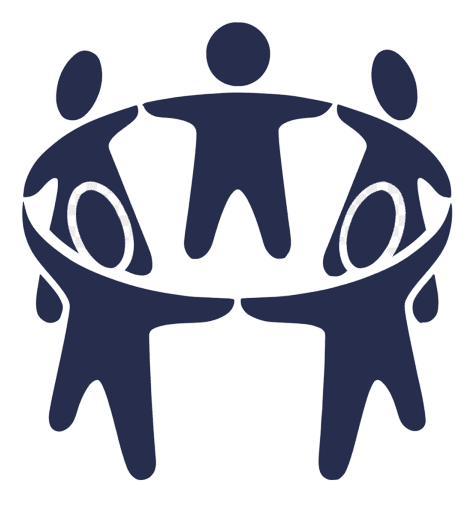
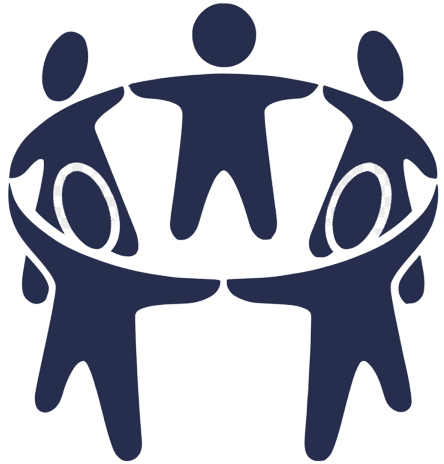
All styles changed

diff --git a/src/components/pages/Home.js b/src/components/pages/Home.js
@@ -16,38 +16,39 @@ const Home = () => {
         <Layout>
             <div className="h-full bg-theme_dark pb-5 text-theme_primary">
                 <div className="flex flex-wrap justify-center">
-                    <div className="w-4/12 sm:w-4/12 px-4">
+                    <div className="w-4/12 sm:w-2/12 px-4">
                         {/* <LazyLoadImage alt="Logo" src="./assets/images/logoSollinx.png" className="rounded h-4/12 m-auto mt-10 align-middle border-none" height="h-4/12" effect="blur" /> */}
-                        <div className="text-center rounded h-4/12 m-auto mt-10 align-middle border-none min-h-sm md:min-h-md">
+                        <div className="text-center rounded h-2/12 m-auto mt-10 align-middle border-none min-h-sm md:min-h-md w-6/12 lg:w-4/12">
                             &nbsp;
-                            <LazyLoadImage src="./assets/images/logoSollinx.png?tr=w-1,h-1:w-400,h-300"  effect="blur" />
+                            <LazyLoadImage src="./assets/images/logoSollinx.png?tr=w-1,h-1:w-200,h-150" effect="blur" />
                         </div>
                     </div>
                 </div>
-                <div className="m-auto w-2/3 md:w-2/3 mt-5 flex flex-col items-center bg-theme_paper rounded-lg md:flex-row hover:bg-theme_paper dark:border-theme_paper dark:bg-theme_paper dark:hover:bg-theme_paper">
-                    <img className="object-cover w-24 h-auto rounded-t-lg md:h-auto md:w-48 md:rounded-none md:rounded-l-lg" loading="lazy" src="./assets/images/book.png" alt="" />
-                    <div className="flex flex-col justify-between p-4 leading-normal">
-                        <h5 className="mb-2 text-2xl font-bold tracking-tight text-gray-900 dark:text-white">Wisdom</h5>
-                        <p className="mb-3 font-normal text-gray-700 dark:text-gray-400"><b>Sollinx</b> is a digital token on the <b>Solana</b> block chain.  <b>Sollinx</b> is a set of communities centered on information of specific interests. Sollinx communities offer information as knowledge and wisdom. Sollinx communities create value for their members, not for shareholders or any institution.</p>
+                <h5 className="text-2xl text-center">Wisdom, Community, Privacy</h5>
+                <div className="m-auto w-10/12 md:w-10/12 mt-5 md:flex items-center bg-theme_paper rounded-lg md:flex-row hover:bg-theme_paper dark:border-theme_paper dark:bg-theme_paper dark:hover:bg-theme_paper">
+                    <div className="flex flex-col justify-between p-0 leading-normal">
+                        <h5 className="mb-4 text-2xl font-bold tracking-tight text-gray-900 dark:text-white">Wisdom</h5>
+                        <p className="mb-3 font-normal md:text-xl lg:text-2xl text-gray-700 dark:text-gray-400"><img className="object-cover float-left w-24 h-auto rounded-t-lg md:h-auto md:w-24 md:rounded-none md:rounded-l-lg" loading="lazy" src="./assets/images/book.png" style={{ shapeOutside: "none" }} alt="" />
+                            <b>Sollinx</b> is a digital token on the <b>Solana</b> block chain.  <b>Sollinx</b> is a set of communities centered on information of specific interests. Sollinx communities offer information as knowledge and wisdom. Sollinx communities create value for their members, not for shareholders or any institution.</p>
                     </div>
                 </div>
-                <div className="m-auto w-2/3 md:w-2/3 mt-5 flex flex-col items-center bg-theme_paper rounded-lg md:flex-row hover:bg-theme_paper dark:border-theme_paper dark:bg-theme_paper dark:hover:bg-theme_paper">
-                    <img className="object-cover w-24 h-auto rounded-t-lg md:h-auto md:w-48 md:rounded-none md:rounded-l-lg"  loading="lazy" src="	./assets/images/community.png" alt="" />
-                    <div className="flex flex-col justify-between p-4 leading-normal">
-                        <h5 className="mb-2 text-2xl font-bold tracking-tight text-gray-900 dark:text-white">Community</h5>
-                        <p className="mb-3 font-normal text-gray-700 dark:text-gray-400">The Solana system allows <b>Sollinx</b> communities to be totally private.  Membership and participation requires no name, no e-mail address, no phone number, no personal information. Period.</p>
+                <div className="m-auto w-10/12 md:w-10/12 mt-5 md:flex items-center bg-theme_paper rounded-lg md:flex-row hover:bg-theme_paper dark:border-theme_paper dark:bg-theme_paper dark:hover:bg-theme_paper">
+                    <div className="flex flex-col justify-between p-0 leading-normal">
+                        <h5 className="mb-4 text-2xl font-bold tracking-tight text-gray-900 dark:text-white">Community</h5>
+                        <p className="mb-3 font-normal md:text-xl lg:text-2xl text-gray-700 dark:text-gray-400"><img className="object-cover float-left  w-24 h-auto rounded-t-lg md:h-auto md:w-24 md:rounded-none md:rounded-l-lg" loading="lazy" src="	./assets/images/community.png" alt="" />
+                            The Solana system allows <b>Sollinx</b> communities to be totally private.  Membership and participation requires no name, no e-mail address, no phone number, no personal information. Period.</p>
                     </div>
                 </div>
-                <div className="m-auto w-2/3 md:w-2/3 mt-5 flex flex-col items-center bg-theme_paper rounded-lg md:flex-row hover:bg-theme_paper dark:border-theme_paper dark:bg-theme_paper dark:hover:bg-theme_paper">
-                    <img className="object-cover w-24 h-auto rounded-t-lg md:h-auto md:w-48 md:rounded-none md:rounded-l-lg"  loading="lazy" src="./assets/images/privacy.png" alt="" />
-                    <div className="flex flex-col justify-between p-4 leading-normal">
-                        <h5 className="mb-2 text-2xl font-bold tracking-tight text-gray-900 dark:text-white">Privacy</h5>
-                        <p className="mb-3 font-normal text-gray-700 dark:text-gray-400">Members must own Sollinx tokens in order to access community content.  Digital “wallets”, on laptops or computers, hold Sollinx tokens. The Solflare app (free) creates wallets to hold Sollinx tokens.</p>
+                <div className="m-auto w-10/12 md:w-10/12 mt-5 md:flex items-center bg-theme_paper rounded-lg md:flex-row hover:bg-theme_paper dark:border-theme_paper dark:bg-theme_paper dark:hover:bg-theme_paper">
+                    <div className="flex flex-col justify-between p-0 leading-normal">
+                        <h5 className="mb-4 text-2xl font-bold tracking-tight text-gray-900 dark:text-white">Privacy</h5>
+                        <p className="mb-3 font-normal md:text-xl lg:text-2xl text-gray-700 dark:text-gray-400"><img className="object-cover float-left w-24 h-auto rounded-t-lg md:h-auto md:w-24 md:rounded-none md:rounded-l-lg" loading="lazy" src="./assets/images/privacy.png" alt="" />
+                            Members must own Sollinx tokens in order to access community content.  Digital “wallets”, on laptops or computers, hold Sollinx tokens. The Solflare app (free) creates wallets to hold Sollinx tokens.</p>
                     </div>
                 </div>
-                <div className="w-2/3 mt-10 m-auto flex flex-col justify-between p-4 leading-normal">
+                <div className="w-10/12 mt-10 m-auto flex flex-col justify-between p-0 leading-normal">
                     <h5 className="mb-2 text-2xl font-bold tracking-tight text-gray-900 dark:text-white">Tap below to:</h5>
-                    <p className="mb-3 ml-10 font-normal md:text-xl text-gray-700 dark:text-gray-400">
+                    <p className="mb-3 ml-2 sm:ml-10 md:text-xl lg:text-2xl font-normal md:text-xl text-gray-700 dark:text-gray-400">
                         - learn more about Sollinx communities
                         <br />
                         - buy Sollinx with a debit/credit card
@@ -63,29 +64,34 @@ const Home = () => {
                     </p>
                 </div>
                 <div className="w-10/12 m-auto text-center justify-center">
-                    <Link to="/community" className="w-4/5 sm:w-4/5 mx-5 mt-3 bg-theme_paper active:bg-sky-600 px-8 py-3 rounded-full shadow-md hover:shadow-lg outline-none focus:outline-none text-center mb-1 ease-linear transition-all duration-150" style={{display:"inline-block"}}><button className="text-sm text-white font-bold text-base" type="button"
+                    <Link to="/community" className="w-3/5 sm:w-2/5 mx-5 mt-3 bg-theme_button active:bg-sky-600 px-8 py-3 rounded-full shadow-md hover:shadow-lg outline-none focus:outline-none text-center mb-1 ease-linear transition-all duration-150" style={{ display: "inline-block" }}><button className="text-sm text-white font-bold text-base" type="button"
                     >
                         Communities
                     </button></Link>
-                    <button className="w-4/5 sm:w-4/ mx-5 mt-3 bg-theme_paper text-sm text-white active:bg-sky-600 font-bold text-base px-8 py-3 rounded-full shadow-md hover:shadow-lg outline-none focus:outline-none mb-1 ease-linear transition-all duration-150" type="button" onClick={() => setBuySollinxModal(true)}
+                    <br />
+                    <button className="w-3/5 sm:w-2/5 mx-5 mt-3 bg-theme_button text-sm text-white active:bg-sky-600 font-bold text-base px-8 py-3 rounded-full shadow-md hover:shadow-lg outline-none focus:outline-none mb-1 ease-linear transition-all duration-150" type="button" onClick={() => setBuySollinxModal(true)}
                     >
                         Buy Sollinx
                     </button>
-                    <button className="w-4/5 sm:w-4/5 mx-5 mt-3 bg-theme_paper text-sm text-white active:bg-sky-600 font-bold text-base px-8 py-3 rounded-full shadow-md hover:shadow-lg outline-none focus:outline-none mb-1 ease-linear transition-all duration-150" type="button" onClick={() => setSolflareShowModal(true)}
+                    <br />
+                    <button className="w-3/5 sm:w-2/5 mx-5 mt-3 bg-theme_button text-sm text-white active:bg-sky-600 font-bold text-base px-8 py-3 rounded-full shadow-md hover:shadow-lg outline-none focus:outline-none mb-1 ease-linear transition-all duration-150" type="button" onClick={() => setSolflareShowModal(true)}
                     >
                         Get Solflare App
                     </button>
-                    <button className="w-4/5 sm:w-4/5 mx-5 mt-3 bg-theme_paper text-sm text-white active:bg-sky-600 font-bold text-base px-8 py-3 rounded-full shadow-md hover:shadow-lg outline-none focus:outline-none mb-1 ease-linear transition-all duration-150" type="button" onClick={() => setSollinxShowModal(true)}
+                    <br />
+                    <button className="w-3/5 sm:w-2/5 mx-5 mt-3 bg-theme_button text-sm text-white active:bg-sky-600 font-bold text-base px-8 py-3 rounded-full shadow-md hover:shadow-lg outline-none focus:outline-none mb-1 ease-linear transition-all duration-150" type="button" onClick={() => setSollinxShowModal(true)}
                     >
                         Get Sollinx App
                     </button>
-                    <button className="w-4/5 sm:w-4/ mx-5 mt-3 bg-theme_paper text-sm text-white active:bg-sky-600 font-bold text-base px-8 py-3 rounded-full shadow-md hover:shadow-lg outline-none focus:outline-none mb-1 ease-linear transition-all duration-150" type="button"
+                    <br />
+                    <button className="w-3/5 sm:w-2/5 mx-5 mt-3 bg-theme_button text-sm text-white active:bg-sky-600 font-bold text-base px-8 py-3 rounded-full shadow-md hover:shadow-lg outline-none focus:outline-none mb-1 ease-linear transition-all duration-150" type="button"
                     >
-                        <a href="https://www.ebgmedia.nl">Visit ebgmedia site</a>
+                        <a href="https://www.ebgmedia.nl">Visit ebgmedia.nl</a>
                     </button>
-                    <button className="w-4/5 sm:w-4/5 mx-5 mt-3 bg-theme_paper text-sm sm:text-md text-white active:bg-sky-600 font-bold text-base px-8 py-3 rounded-full shadow-md hover:shadow-lg outline-none focus:outline-none mb-1 ease-linear transition-all duration-150" type="button"
+                    <br />
+                    <button className="w-3/5 sm:w-2/5 mx-5 mt-3 bg-theme_button text-sm sm:text-md text-white active:bg-sky-600 font-bold text-base px-8 py-3 rounded-full shadow-md hover:shadow-lg outline-none focus:outline-none mb-1 ease-linear transition-all duration-150" type="button"
                     >
-                        <a href="https://www.solana.com">Visit www.solana site</a>
+                        <a href="https://www.solana.com">Visit solana.com</a>
                     </button>
                 </div>
             </div>

diff --git a/src/components/pages/Community.js b/src/components/pages/Community.js
@@ -11,45 +11,46 @@ const Community = () => {
         <Layout>
             <div className="h-full bg-theme_dark pb-5 text-theme_primary">
                 <div className="flex flex-wrap justify-center">
-                    <div className="w-4/12 sm:w-4/12 px-4">
-                        <div className="text-center rounded h-4/12 m-auto mt-10 align-middle border-none min-h-sm md:min-h-md">
+                    <div className="w-4/12 sm:w-2/12 px-4">
+                        {/* <LazyLoadImage alt="Logo" src="./assets/images/logoSollinx.png" className="rounded h-4/12 m-auto mt-10 align-middle border-none" height="h-4/12" effect="blur" /> */}
+                        <div className="text-center rounded h-2/12 m-auto mt-10 align-middle border-none min-h-sm md:min-h-md w-6/12 lg:w-4/12">
                             &nbsp;
-                            <LazyLoadImage src="./assets/images/logoSollinx.png?tr=w-1,h-1:w-400,h-300"  effect="blur" />
+                            <LazyLoadImage src="./assets/images/logoSollinx.png?tr=w-1,h-1:w-200,h-150" effect="blur" />
                         </div>
                     </div>
                 </div>
                 <h5 className="text-2xl text-center">Communities of wisdom</h5>
-                <div className="m-auto w-2/3 md:w-2/3 mt-5 flex flex-col items-center bg-theme_paper rounded-lg md:flex-row hover:bg-theme_paper dark:border-theme_paper dark:bg-theme_paper dark:hover:bg-theme_paper">
-                    <img className="object-cover w-24 h-auto rounded-t-lg md:h-auto md:w-48 md:rounded-none md:rounded-l-lg" src="./assets/images/logoSollinx.png" alt="" />
-                    <div className="flex flex-col justify-between p-4 leading-normal">
-                        <h5 className="mb-2 text-2xl font-bold tracking-tight text-gray-900 dark:text-white"></h5>
-                        <p className="mb-3 font-normal text-gray-700 dark:text-gray-400">Sollinx is a set of communities focused on life interests, organized into “threads” of information.  The menu below leads to community descriptions.   The first Sollinx community is “Finance”.</p>
+                <div className="m-auto w-10/12 md:w-10/12 mt-5 md:flex items-center bg-theme_paper rounded-lg md:flex-row hover:bg-theme_paper dark:border-theme_paper dark:bg-theme_paper dark:hover:bg-theme_paper">
+                    <div className="flex flex-col justify-between p-0 leading-normal">
+                        <h5 className="mb-4 text-2xl font-bold tracking-tight text-gray-900 dark:text-white"></h5>
+                        <p className="mb-3 font-normal md:text-xl lg:text-2xl text-gray-700 dark:text-gray-400"><img className="object-cover float-left w-24 h-auto rounded-t-lg md:h-auto md:w-24 md:rounded-none md:rounded-l-lg" loading="lazy" src="./assets/images/logoSollinx.png" style={{ shapeOutside: "none" }} alt="" />
+                        Sollinx is a set of communities focused on life interests, organized into “threads” of information.  The menu below leads to community descriptions.   The first Sollinx community is “Finance”.</p>
                     </div>
                 </div>
-                <div className="m-auto w-2/3 md:w-2/3 mt-5 flex flex-col items-center bg-theme_paper rounded-lg md:flex-row hover:bg-theme_paper dark:border-theme_paper dark:bg-theme_paper dark:hover:bg-theme_paper">
-                    <img className="object-cover w-24 h-auto rounded-t-lg md:h-auto md:w-48 md:rounded-none md:rounded-l-lg" src="./assets/images/logoSollinx.png" alt="" />
-                    <div className="flex flex-col justify-between p-4 leading-normal">
-                        <h5 className="mb-2 text-2xl font-bold tracking-tight text-gray-900 dark:text-white"></h5>
-                        <p className="mb-3 font-normal text-gray-700 dark:text-gray-400">Information in content threads is classified as “current”, “archived”, and “reference”.  This structure helps community members find information.  Access to all information is limited to holders of Sollinx tokens.</p>
+                <div className="m-auto w-10/12 md:w-10/12 mt-5 md:flex items-center bg-theme_paper rounded-lg md:flex-row hover:bg-theme_paper dark:border-theme_paper dark:bg-theme_paper dark:hover:bg-theme_paper">
+                    <div className="flex flex-col justify-between p-0 leading-normal">
+                        <h5 className="mb-4 text-2xl font-bold tracking-tight text-gray-900 dark:text-white"></h5>
+                        <p className="mb-3 font-normal md:text-xl lg:text-2xl text-gray-700 dark:text-gray-400"><img className="object-cover float-left w-24 h-auto rounded-t-lg md:h-auto md:w-24 md:rounded-none md:rounded-l-lg" loading="lazy" src="./assets/images/logoSollinx.png" style={{ shapeOutside: "none" }} alt="" />
+                        Information in content threads is classified as “current”, “archived”, and “reference”.  This structure helps community members find information.  Access to all information is limited to holders of Sollinx tokens.</p>
                     </div>
                 </div>
-                <div className="m-auto w-2/3 md:w-2/3 mt-5 flex flex-col items-center bg-theme_paper rounded-lg md:flex-row hover:bg-theme_paper dark:border-theme_paper dark:bg-theme_paper dark:hover:bg-theme_paper">
-                    <img className="object-cover w-24 h-auto rounded-t-lg md:h-auto md:w-48 md:rounded-none md:rounded-l-lg" src="./assets/images/logoSollinx.png" alt="" />
-                    <div className="flex flex-col justify-between p-4 leading-normal">
-                        <h5 className="mb-2 text-2xl font-bold tracking-tight text-gray-900 dark:text-white"></h5>
-                        <p className="mb-3 font-normal text-gray-700 dark:text-gray-400">All community Information is private, confidential, proprietary, and privileged between parties of the community.  Community content is valuable.  The community expects members to protect its content.</p>
+                <div className="m-auto w-10/12 md:w-10/12 mt-5 md:flex items-center bg-theme_paper rounded-lg md:flex-row hover:bg-theme_paper dark:border-theme_paper dark:bg-theme_paper dark:hover:bg-theme_paper">
+                    <div className="flex flex-col justify-between p-0 leading-normal">
+                        <h5 className="mb-4 text-2xl font-bold tracking-tight text-gray-900 dark:text-white"></h5>
+                        <p className="mb-3 font-normal md:text-xl lg:text-2xl text-gray-700 dark:text-gray-400"><img className="object-cover float-left w-24 h-auto rounded-t-lg md:h-auto md:w-24 md:rounded-none md:rounded-l-lg" loading="lazy" src="./assets/images/logoSollinx.png" style={{ shapeOutside: "none" }} alt="" />
+                        All community Information is private, confidential, proprietary, and privileged between parties of the community.  Community content is valuable.  The community expects members to protect its content.</p>
                     </div>
                 </div>
 
-                <div className="m-auto justify-center w-2/3 md:w-2/3 mt-5 flex flex-col items-center bg-theme_paper rounded-lg shadow-md md:flex-col hover:bg-theme_paper dark:border-theme_paper dark:bg-theme_paper dark:hover:bg-theme_paper">
-                    <div className="flex flex-col p-4 leading-normal" style={{ cursor: "pointer" }} onClick={() => setShowDropdown(!showDropdown)}>
-                        <h5 className="mb-2 text-2xl font-bold text-gray-900 dark:text-white">Sollinx Communities</h5>
+                <div className="justify-center w-full md:w-full mt-5 flex flex-col items-center bg-theme_primary  md:flex-col hover:bg-theme_primary dark:border-theme_primary text-white dark:hover:bg-theme_primary">
+                    <div className="flex flex-col w-full text-center pt-2 pb-2 leading-normal" style={{ cursor: "pointer" }} onClick={() => setShowDropdown(!showDropdown)}>
+                        <h5 className="mb-2 text-2xl font-bold" style={{color:"white"}}>Sollinx Communities</h5>
                     </div>
                     {showDropdown ? (<div className="w-full mb-5 text-center">
                         <button className="w-4/5 sm:w-4/5 md:w-6/12 mx-5 mt-3 bg-theme_paper text-sm text-white active:bg-sky-600 font-bold text-base px-8 py-3 rounded-full shadow-md hover:shadow-lg outline-none focus:outline-none mb-1 ease-linear transition-all duration-150" type="button"
                         ><Link to="/finance">
-                            Finance
-                        </Link>
+                                Finance
+                            </Link>
                         </button>
                         <button className="w-4/5 sm:w-4/5 md:w-6/12 mx-5 mt-3 bg-theme_paper text-sm text-white active:bg-sky-600 font-bold text-base px-8 py-3 rounded-full shadow-md hover:shadow-lg outline-none focus:outline-none mb-1 ease-linear transition-all duration-150" type="button"
                         >

diff --git a/src/components/pages/Finance.js b/src/components/pages/Finance.js
@@ -11,35 +11,37 @@ const Finance = () => {
         <Layout>
             <div className="h-full bg-theme_dark pb-5 text-theme_primary">
                 <div className="flex flex-wrap justify-center">
-                    <div className="w-4/12 sm:w-4/12 px-4">
-                        <div className="text-center rounded h-4/12 m-auto mt-10 align-middle border-none min-h-sm md:min-h-md">
+                    <div className="w-4/12 sm:w-2/12 px-4">
+                        {/* <LazyLoadImage alt="Logo" src="./assets/images/logoSollinx.png" className="rounded h-4/12 m-auto mt-10 align-middle border-none" height="h-4/12" effect="blur" /> */}
+                        <div className="text-center rounded h-2/12 m-auto mt-10 align-middle border-none min-h-sm md:min-h-md w-6/12 lg:w-4/12">
                             &nbsp;
-                            <LazyLoadImage src="./assets/images/logoSollinx.png?tr=w-1,h-1:w-400,h-300"  effect="blur" />
+                            <LazyLoadImage src="./assets/images/logoSollinx.png?tr=w-1,h-1:w-200,h-150" effect="blur" />
                         </div>
                     </div>
                 </div>
                 <h5 className="text-2xl text-center">Money wisdom</h5>
-                <div className="m-auto w-2/3 md:w-2/3 mt-5 flex flex-col items-center bg-theme_paper rounded-lg md:flex-row hover:bg-theme_paper dark:border-theme_paper dark:bg-theme_paper dark:hover:bg-theme_paper">
-                    <img className="object-cover w-24 h-auto rounded-t-lg md:h-auto md:w-48 md:rounded-none md:rounded-l-lg" src="./assets/images/logoSollinx.png" alt="" />
-                    <div className="flex flex-col justify-between p-4 leading-normal">
-                        <h5 className="mb-2 text-2xl font-bold tracking-tight text-gray-900 dark:text-white"></h5>
-                        <p className="mb-3 font-normal text-gray-700 dark:text-gray-400">Finance is a fundamental aspect of life.  SollinxFinance is a community of individuals seeking information for better financial decision-making.   Content threads include: securities, debt, insurance, crypto, real estate, and tax.</p>
+                <div className="m-auto w-10/12 md:w-10/12 mt-5 md:flex items-center bg-theme_paper rounded-lg md:flex-row hover:bg-theme_paper dark:border-theme_paper dark:bg-theme_paper dark:hover:bg-theme_paper">
+                    <div className="flex flex-col justify-between p-0 leading-normal">
+                        <h5 className="mb-4 text-2xl font-bold tracking-tight text-gray-900 dark:text-white"></h5>
+                        <p className="mb-3 font-normal md:text-xl lg:text-2xl text-gray-700 dark:text-gray-400"><img className="object-cover float-left w-24 h-auto rounded-t-lg md:h-auto md:w-24 md:rounded-none md:rounded-l-lg" loading="lazy" src="./assets/images/logoSollinx.png" style={{ shapeOutside: "none" }} alt="" />
+                        Finance is a fundamental aspect of life.  SollinxFinance is a community of individuals seeking information for better financial decision-making.   Content threads include: securities, debt, insurance, crypto, real estate, and tax.</p>
                     </div>
                 </div>
-                <div className="m-auto w-2/3 md:w-2/3 mt-5 flex flex-col items-center bg-theme_paper rounded-lg md:flex-row hover:bg-theme_paper dark:border-theme_paper dark:bg-theme_paper dark:hover:bg-theme_paper">
-                    <img className="object-cover w-24 h-auto rounded-t-lg md:h-auto md:w-48 md:rounded-none md:rounded-l-lg" src="./assets/images/logoSollinx.png" alt="" />
-                    <div className="flex flex-col justify-between p-4 leading-normal">
-                        <h5 className="mb-2 text-2xl font-bold tracking-tight text-gray-900 dark:text-white"></h5>
-                        <p className="mb-3 font-normal text-gray-700 dark:text-gray-400">Activities of the community center on relevant, timely, and accurate content on financial topics.  Content clearly differentiates between fact, observation, opinion, and advice. Members learn in order to better decide and act.</p>
+                <div className="m-auto w-10/12 md:w-10/12 mt-5 md:flex items-center bg-theme_paper rounded-lg md:flex-row hover:bg-theme_paper dark:border-theme_paper dark:bg-theme_paper dark:hover:bg-theme_paper">
+                    <div className="flex flex-col justify-between p-0 leading-normal">
+                        <h5 className="mb-4 text-2xl font-bold tracking-tight text-gray-900 dark:text-white"></h5>
+                        <p className="mb-3 font-normal md:text-xl lg:text-2xl text-gray-700 dark:text-gray-400"><img className="object-cover float-left w-24 h-auto rounded-t-lg md:h-auto md:w-24 md:rounded-none md:rounded-l-lg" loading="lazy" src="./assets/images/logoSollinx.png" style={{ shapeOutside: "none" }} alt="" />
+                        Activities of the community center on relevant, timely, and accurate content on financial topics.  Content clearly differentiates between fact, observation, opinion, and advice. Members learn in order to better decide and act.</p>
                     </div>
                 </div>
-                <div className="m-auto w-2/3 md:w-2/3 mt-5 flex flex-col items-center bg-theme_paper rounded-lg md:flex-row hover:bg-theme_paper dark:border-theme_paper dark:bg-theme_paper dark:hover:bg-theme_paper">
-                    <img className="object-cover w-24 h-auto rounded-t-lg md:h-auto md:w-48 md:rounded-none md:rounded-l-lg" src="./assets/images/logoSollinx.png" alt="" />
-                    <div className="flex flex-col justify-between p-4 leading-normal">
-                        <h5 className="mb-2 text-2xl font-bold tracking-tight text-gray-900 dark:text-white"></h5>
-                        <p className="mb-3 font-normal text-gray-700 dark:text-gray-400">Wise individuals seek good information to make better decisions. The Sollinx community creates and promulgates information worthy of trust.</p>
+                <div className="m-auto w-10/12 md:w-10/12 mt-5 md:flex items-center bg-theme_paper rounded-lg md:flex-row hover:bg-theme_paper dark:border-theme_paper dark:bg-theme_paper dark:hover:bg-theme_paper">
+                    <div className="flex flex-col justify-between p-0 leading-normal">
+                        <h5 className="mb-4 text-2xl font-bold tracking-tight text-gray-900 dark:text-white"></h5>
+                        <p className="mb-3 font-normal md:text-xl lg:text-2xl text-gray-700 dark:text-gray-400"><img className="object-cover float-left w-24 h-auto rounded-t-lg md:h-auto md:w-24 md:rounded-none md:rounded-l-lg" loading="lazy" src="./assets/images/logoSollinx.png" style={{ shapeOutside: "none" }} alt="" />
+                        Wise individuals seek good information to make better decisions. The Sollinx community creates and promulgates information worthy of trust.</p>
                     </div>
                 </div>
+
                 <div className="w-10/12 m-auto flex flex-wrap justify-center mt-5">
                     <button className="w-4/5 sm:w-4/5 md:w-3/12 mx-5 mt-3 bg-theme_paper text-sm text-white active:bg-sky-600 font-bold text-base px-8 py-3 rounded-full shadow-md hover:shadow-lg outline-none focus:outline-none mb-1 ease-linear transition-all duration-150" type="button" onClick={() => setSollinxShowModal(true)}
                     >

diff --git a/src/components/layouts/footer.js b/src/components/layouts/footer.js
@@ -112,7 +112,7 @@ const Footer = ({ className }) => {
                             <h6 className="uppercase font-semibold mb-4 flex justify-center md:justify-start">
                                 Contact
                             </h6>
-                            <p className="flex items-center justify-center md:justify-start mb-4">
+                            {/* <p className="flex items-center justify-center md:justify-start mb-4">
                                 <svg aria-hidden="true" focusable="false" data-prefix="fas" data-icon="home"
                                     className="w-5 mr-4" role="img" xmlns="http://www.w3.org/2000/svg" viewBox="0 0 576 512">
                                     <path fill="currentColor"
@@ -120,7 +120,7 @@ const Footer = ({ className }) => {
                                     </path>
                                 </svg>
                                 DA11 9SW, Kent, United Kingdom
-                            </p>
+                            </p> */}
                             <p className="flex items-center justify-center md:justify-start mb-4">
                                 <svg aria-hidden="true" focusable="false" data-prefix="fas" data-icon="envelope"
                                     className="w-4 mr-4" role="img" xmlns="http://www.w3.org/2000/svg"
@@ -139,7 +139,7 @@ const Footer = ({ className }) => {
                                         d="M493.4 24.6l-104-24c-11.3-2.6-22.9 3.3-27.5 13.9l-48 112c-4.2 9.8-1.4 21.3 6.9 28l60.6 49.6c-36 76.7-98.9 140.5-177.2 177.2l-49.6-60.6c-6.8-8.3-18.2-11.1-28-6.9l-112 48C3.9 366.5-2 378.1.6 389.4l24 104C27.1 504.2 36.7 512 48 512c256.1 0 464-207.5 464-464 0-11.2-7.7-20.9-18.6-23.4z">
                                     </path>
                                 </svg>
-                                + 01 234 567 88
+                                + 31 684 760 76
                             </p>
                             <p className="flex items-center justify-center md:justify-start">
                                 <svg aria-hidden="true" focusable="false" data-prefix="fas" data-icon="print"
@@ -149,14 +149,14 @@ const Footer = ({ className }) => {
                                         d="M448 192V77.25c0-8.49-3.37-16.62-9.37-22.63L393.37 9.37c-6-6-14.14-9.37-22.63-9.37H96C78.33 0 64 14.33 64 32v160c-35.35 0-64 28.65-64 64v112c0 8.84 7.16 16 16 16h48v96c0 17.67 14.33 32 32 32h320c17.67 0 32-14.33 32-32v-96h48c8.84 0 16-7.16 16-16V256c0-35.35-28.65-64-64-64zm-64 256H128v-96h256v96zm0-224H128V64h192v48c0 8.84 7.16 16 16 16h48v96zm48 72c-13.25 0-24-10.75-24-24 0-13.26 10.75-24 24-24s24 10.74 24 24c0 13.25-10.75 24-24 24z">
                                     </path>
                                 </svg>
-                                + 01 234 567 89
+                                + 31 684 760 76
                             </p>
                         </div>
                     </div>
                 </div>
                 <div className="text-center p-6 bg-indigo-600">
                     <span>© 2022 Copyright:</span>
-                    <a className="text-base-100 font-semibold" href="https://www.sollinx.com/">EBG Media</a>
+                    <a className="text-base-100 font-semibold" href="https://www.sollinx.com/">Sollinx Communities</a>
                 </div>
             </footer>
         </div>

diff --git a/src/components/pages/modals/SollinxApp.js b/src/components/pages/modals/SollinxApp.js
@@ -6,7 +6,7 @@ const SollinxAppModal = ({onModal}) => {
                 className="justify-center items-center flex overflow-x-hidden overflow-y-auto fixed inset-0 z-50 outline-none focus:outline-none bg-[#e2e2e250]"
                 onClick={() => onModal(false)}
             >
-                <div className="relative w-auto my-3 mx-auto max-w-3xl bg-theme_dark rounded-lg" onClick={(e) => e.stopPropagation()}>
+                <div className="relative w-3/5 my-3 mx-auto max-w-3xl bg-theme_dark rounded-lg shadow-2xl" style={{borderColor:"#72b8ff80", borderWidth:"3px"}} onClick={(e) => e.stopPropagation()}>
                     {/*content*/}
                     <div className="border-0 rounded-lg shadow-lg relative flex flex-col w-full bg-white outline-none focus:outline-none">
                         {/*header*/}
@@ -14,7 +14,7 @@ const SollinxAppModal = ({onModal}) => {
                         <div className="relative p-6 pb-0 flex-auto">
                             <div className="p-2 w-full text-center bg-white rounded-lg sm:p-2 dark:bg-gray-800">
                                 <h5 className="mb-2 text-3xl font-bold text-gray-900 dark:text-white">Sollinx App</h5>
-                                <p className="mb-5 text-base text-gray-500 sm:text-lg dark:text-gray-400">Sollinx App is designed for mobile and android which boost your sollinx transaction. It can be easily set up and provide friendly-interface</p>
+                                <p className="mb-5 text-base text-gray-500 sm:text-lg dark:text-gray-400">The Sollinx app is your interface to the Sollinx communities.  It is free.</p>
                                 <div className="justify-center items-center space-y-4 sm:flex sm:space-y-0 sm:space-x-4">
                                     <a href="https://www.apple.com" className="w-full sm:w-auto bg-gray-800 hover:bg-gray-700 focus:ring-4 focus:outline-none focus:ring-gray-300 text-white rounded-lg inline-flex items-center justify-center px-4 py-2.5 dark:bg-gray-700 dark:hover:bg-gray-600 dark:focus:ring-gray-700">
                                         <svg className="mr-3 w-7 h-7" aria-hidden="true" focusable="false" data-prefix="fab" data-icon="apple" role="img" xmlns="http://www.w3.org/2000/svg" viewBox="0 0 384 512"><path fill="currentColor" d="M318.7 268.7c-.2-36.7 16.4-64.4 50-84.8-18.8-26.9-47.2-41.7-84.7-44.6-35.5-2.8-74.3 20.7-88.5 20.7-15 0-49.4-19.7-76.4-19.7C63.3 141.2 4 184.8 4 273.5q0 39.3 14.4 81.2c12.8 36.7 59 126.7 107.2 125.2 25.2-.6 43-17.9 75.8-17.9 31.8 0 48.3 17.9 76.4 17.9 48.6-.7 90.4-82.5 102.6-119.3-65.2-30.7-61.7-90-61.7-91.9zm-56.6-164.2c27.3-32.4 24.8-61.9 24-72.5-24.1 1.4-52 16.4-67.9 34.9-17.5 19.8-27.8 44.3-25.6 71.9 26.1 2 49.9-11.4 69.5-34.3z"></path></svg>

diff --git a/src/components/layouts/navigation.js b/src/components/layouts/navigation.js
@@ -11,7 +11,7 @@ const Navigator = () => {
             <nav className="relative flex flex-wrap items-center justify-between px-2 py-3 bg-theme_primary text-theme_text">
                 <div className="container px-4 mx-auto flex flex-wrap items-center justify-between">
                     <div className="w-full relative flex justify-between lg:w-auto lg:static lg:block lg:justify-start">
-                        <a
+                        {/* <a
                             className="flex items-center text-sm font-bold leading-relaxed inline-block mr-4 py-2 whitespace-nowrap uppercase text-white"
                             href="#"
                         >
@@ -20,7 +20,10 @@ const Navigator = () => {
                                 <LazyLoadImage src="./assets/images/logoSollinx.png" effect="blur" alt="logo" />
                             </div>
                             <p className="ml-4 text-xl">Sollinx</p>
-                        </a>
+                        </a> */}
+                        <div>
+
+                        </div>
                         <button
                             className="text-white cursor-pointer text-xl leading-none px-3 py-1 border border-solid border-transparent rounded bg-transparent block lg:hidden outline-none focus:outline-none"
                             type="button"
@@ -64,7 +67,7 @@ const Navigator = () => {
                                     className="px-3 py-2 flex items-center text-xs uppercase font-bold leading-snug text-white hover:opacity-75"
                                     href="#"
                                 >
-                                    <span className="ml-2"><NavLink to="/community">Community</NavLink></span>
+                                    <span className="ml-2"><NavLink to="/community">Communities</NavLink></span>
                                 </a>
                             </li>
                             <li className="nav-item">
@@ -72,7 +75,7 @@ const Navigator = () => {
                                     className="px-3 py-2 flex items-center text-xs uppercase font-bold leading-snug text-white hover:opacity-75"
                                     href="#"
                                 >
-                                    <span className="ml-2"><NavLink to="/finance">Finance</NavLink></span>
+                                    <span className="ml-2"><NavLink to="/finance">Finance Community</NavLink></span>
                                 </a>
                             </li>
                         </ul>

diff --git a/src/components/pages/modals/Solflare.js b/src/components/pages/modals/Solflare.js
@@ -10,7 +10,7 @@ const SolflareModal = ({ onModal }) => {
                 className="justify-center items-center flex overflow-x-hidden overflow-y-auto fixed inset-0 z-50 outline-none focus:outline-none bg-[#e2e2e250]"
                 onClick={(e) => e.stopPropagation()} onwmousewheel={(e) => e.stopPropagation()}
             >
-                <div className="relative w-auto my-3 mx-auto max-w-3xl bg-theme_dark rounded-lg" onClick={(e) => e.stopPropagation()}>
+                <div className="relative w-3/5 my-3 mx-auto max-w-3xl bg-theme_dark rounded-lg shadow-2xl" style={{borderColor:"#72b8ff80", borderWidth:"3px"}} onClick={(e) => e.stopPropagation()}>
                     {/*content*/}
                     <div className="border-0 rounded-lg shadow-lg relative flex flex-col w-full bg-white outline-none focus:outline-none">
                         {/*header*/}

diff --git a/src/components/pages/modals/BuySollinx.js b/src/components/pages/modals/BuySollinx.js
@@ -6,7 +6,7 @@ const BuySollinx = ({ onModal }) => {
                 className="justify-center items-center flex overflow-x-hidden overflow-y-auto fixed inset-0 z-50 outline-none focus:outline-none bg-[#e2e2e250]"
                 onClick={(e) => e.stopPropagation()} onwmousewheel={(e) => e.stopPropagation()}
             >
-                <div className="relative w-auto my-3 mx-auto max-w-3xl bg-theme_dark rounded-lg" onClick={(e) => e.stopPropagation()}>
+                <div className="relative w-3/5 my-3 mx-auto max-w-3xl bg-theme_dark rounded-lg shadow-2xl" style={{borderColor:"#72b8ff80", borderWidth:"3px"}} onClick={(e) => e.stopPropagation()}>
                     {/*content*/}
                     <div className="border-0 rounded-lg shadow-lg relative flex flex-col w-full bg-white outline-none focus:outline-none">
                         {/*header*/}

diff --git a/tailwind.config.js b/tailwind.config.js
@@ -10,11 +10,12 @@ module.exports = {
       'theme_deep': '#0e0e0e',
       'theme_text': '#ffffff',
       'theme_paper': '#f1f1f1',
+      'theme_button': '#98e2ff',
     },
     minHeight: {
       'nav': '6vh',
-      'sm': '20vw',
-      'md': '10vw',        
+      'sm': '10vw',
+      'md': '5vw',        
     }
   },
   plugins: [],
